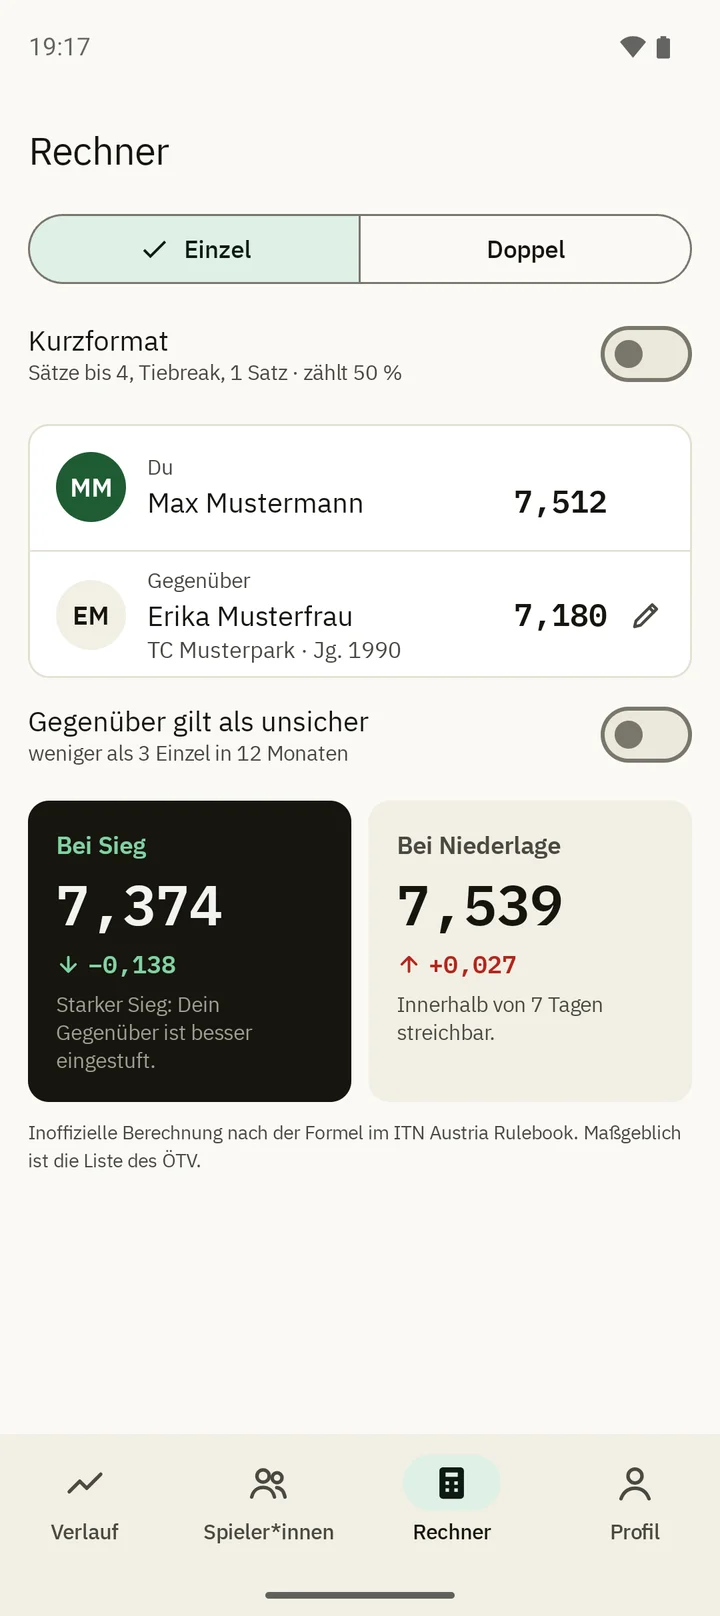
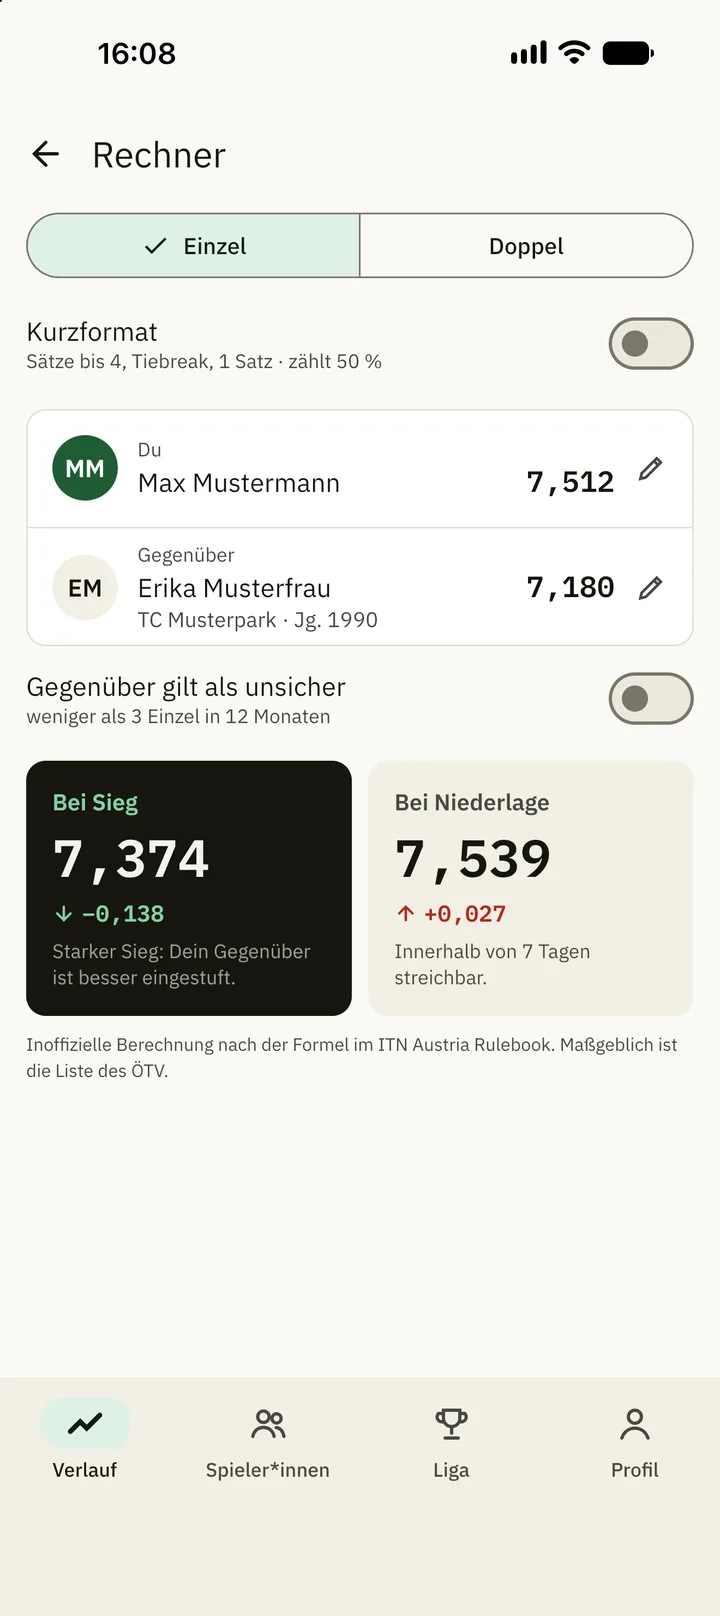
Add team captain app screenshots and refresh the reused app images from the current iOS UI

diff --git a/site/index.html b/site/index.html
@@ -60,8 +60,8 @@
       </div>
 
       <figure class="hero-shot">
-        <div class="crop crop-spieler">
-          <img src="/img/app-verfuegbarkeit.webp" alt="Verfügbarkeitsabfrage der App aus Sicht der Mannschaftsführung: Kacheln mit Ja, Unter Umständen, Nein und Keine Antwort für den nächsten Spieltag" width="720" height="1616" decoding="async" fetchpriority="high">
+        <div class="crop crop-abfrage">
+          <img src="/img/app-verfuegbarkeit.webp" alt="Verfügbarkeitsabfrage der App aus Sicht der Mannschaftsführung: Antworten zum nächsten Spieltag als Liste: sieben mit Ja, eine mit Unter Umständen" width="720" height="1616" decoding="async" fetchpriority="high">
         </div>
       </figure>
     </div>
@@ -222,7 +222,7 @@
         </figure>
         <figure class="step step-2">
           <div class="crop crop-verlauf">
-            <img src="/img/app-verlauf.webp" alt="Verlauf-Ansicht der App: aktueller Wert 7,512, minus 0,270 seit 2. Jänner, Diagramm der Saison mit fallender Kurve und die Karte Letztes Match" width="720" height="1616" loading="lazy" decoding="async">
+            <img src="/img/app-verlauf.webp" alt="Verlauf-Ansicht der App: aktueller Wert 7,512, minus 0,270 seit 2. Jänner, Diagramm der Saison mit fallender Kurve und die Karte Nächstes Match" width="720" height="1616" loading="lazy" decoding="async">
           </div>
           <figcaption>Verlauf</figcaption>
         </figure>

diff --git a/site/home.css b/site/home.css
@@ -10,12 +10,12 @@
 /* Cropped screenshots */
 .crop { position: relative; overflow: hidden; background: #faf9f5; border: 1.5px solid var(--text); border-bottom: 1.5px dashed var(--text); border-radius: 22px 22px 0 0; }
 .crop img { display: block; width: 100%; height: auto; }
-.crop-rechner { aspect-ratio: 720 / 1180; }
-.crop-spieler { aspect-ratio: 720 / 1230; }
-.crop-mannschaft { aspect-ratio: 720 / 1160; }
-.crop-liga { aspect-ratio: 720 / 1190; }
-.crop-verlauf { aspect-ratio: 720 / 1220; }
-.crop-matches { aspect-ratio: 720 / 1116; }
+.crop-rechner { aspect-ratio: 720 / 1110; }
+.crop-abfrage { aspect-ratio: 720 / 1372; }
+.crop-spieler { aspect-ratio: 720 / 1250; }
+.crop-mannschaft { aspect-ratio: 720 / 1175; }
+.crop-liga { aspect-ratio: 720 / 1350; }
+.crop-verlauf { aspect-ratio: 720 / 1260; }
 
 /* Annotation tags sit in empty space next to what they point at (positions measured on the 720 px originals) */
 .tag, .legend-tag, .ref { display: inline-grid; place-items: center; background: #a64b27; color: #faf9f5; font-family: var(--font-mono); font-weight: 600; line-height: 1; }
